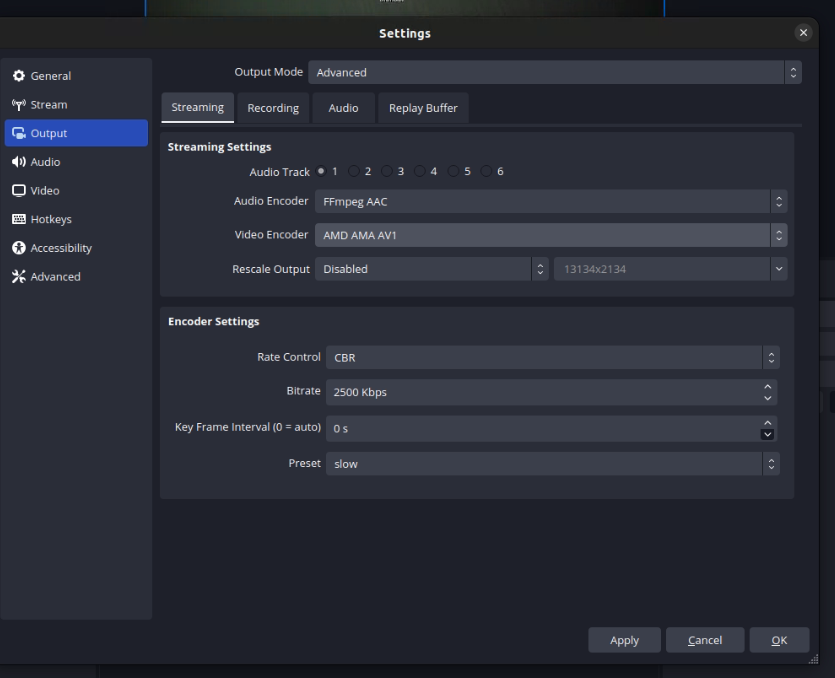
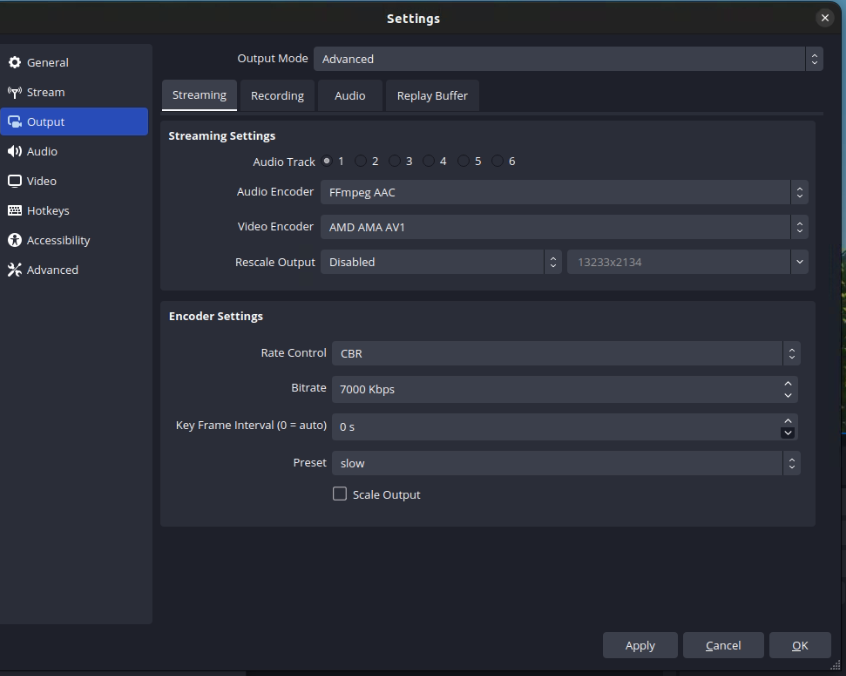
doc: Update README with scaler info. (#21)

diff --git a/README.md b/README.md
@@ -115,8 +115,11 @@ After running these two commands you will have a build folder named `build_x86_6
   - (fast) Allows for increase in total throughput from 4kp60 to 4kp75 , when 2 or more channels are used. Does not apply to AV1 -type 1 encoding. Not applicable under ULL setting. Note lower VQ than medium preset is to be expected.
   - (medium) Full density with medium VQ - default
   - (slow) High VQ at lower density. Applicable to 10 bit contents only.
+* Scale output: Enables the scaling functionality.
+* Resolution: When scaling is enabled configures the scaling resolution.
 
 ![av1 screenshot](images/av1_screenshot.png)
+![av1 scaling screenshot](images/av1_scale_screenshot.png)
 
 
 ### AVC/H.264 & HEVC/H.265
@@ -137,10 +140,12 @@ After running these two commands you will have a build folder named `build_x86_6
   - (fast) Allows for increase in total throughput from 4kp60 to 4kp75 , when 2 or more channels are used. Does not apply to AV1 -type 1 encoding. Not applicable under ULL setting. Note lower VQ than medium preset is to be expected.
   - (medium) Full density with medium VQ - default
   - (slow) High VQ at lower density. Applicable to 10 bit contents only.
+* Scale output: Enables the scaling functionality.
+* Resolution: When scaling is enabled configures the scaling resolution.
 
 ![h264 screenshot](images/h264_screenshot.png)
 
-![h264 screenshot](images/h264_look_ahead_screenshot.png)
+![h264 screenshot](images/h264_scale_screenshot.png)
 
 ![hevc screenshot](images/hevc_screenshot.png)
 
